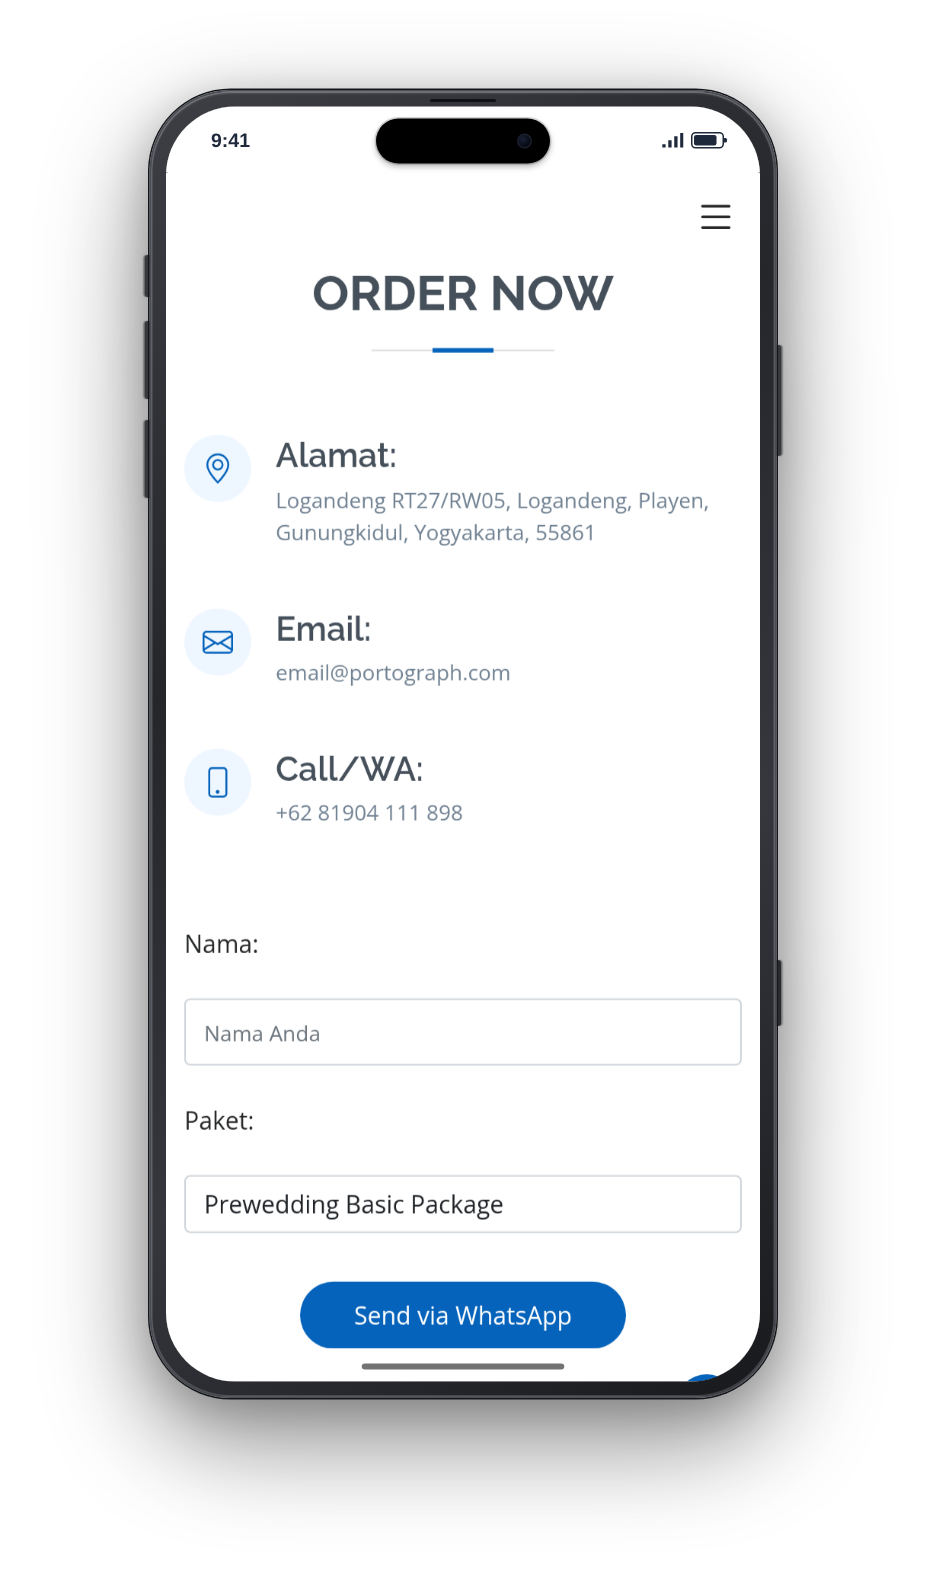
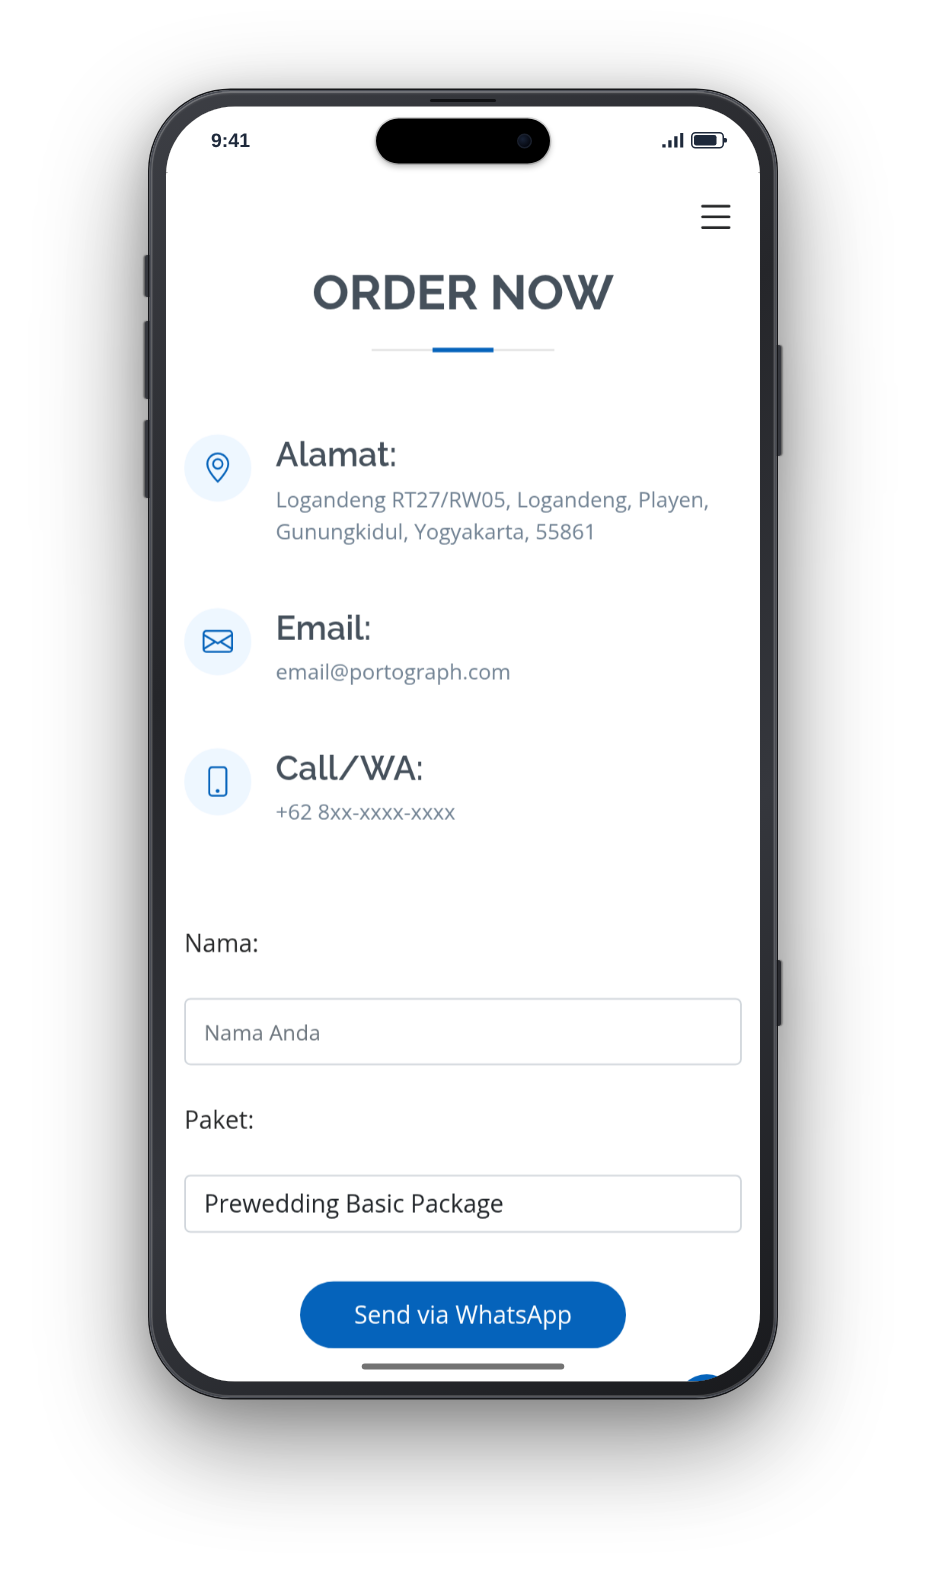
docs: sanitize WhatsApp number in README and contact screenshots

diff --git a/README.md b/README.md
@@ -37,7 +37,7 @@ Portograph is a responsive Bootstrap 5 template designed for wedding photography
 - **Dynamic Typewriter Headline**: Hero section headline cycling through creative studio specialties (`Wedding Photography`, `Wedding Cinematic`, `Live Streaming`, `Video Shooting`) powered by Typed.js 2.0.12 with looping typing and deleting transitions.
 - **Live Instagram Portfolio Feed**: Dynamic social gallery embed via EmbedSocial hashtag widget (`#portfolio`) pulling real-time photography shoots directly from Instagram without manual static markup maintenance.
 - **Service Package Catalog**: Visual showcase of studio service tiers featuring 5 comprehensive brochures covering Prewedding Basic, Prewedding Premium, Prewedding Exclusive, Wedding Silver, Wedding Gold, and Platinum Exclusive tiers, with bundled PDF download links (`paket_compressed.pdf` and `paket.pdf`).
-- **Direct WhatsApp Booking Engine**: Interactive order form (`#contact`) with client name input and dropdown package selection that dynamically builds and launches a pre-filled booking inquiry via WhatsApp API (`gotowhatsapp()` routing directly to `+6281904111898`).
+- **Direct WhatsApp Booking Engine**: Interactive order form (`#contact`) with client name input and dropdown package selection that dynamically builds and launches a pre-filled booking inquiry via WhatsApp Click-to-Chat API (`gotowhatsapp()`).
 - **Case Study Detail Template (`portfolio-details.html`)**: Dedicated multi-image project showcase featuring an auto-playing Swiper 7.3.0 carousel with pagination bullets, project metadata sidebar (Category, Client, Date, URL), and project narrative container.
 - **Responsive Sidebar Navigation**: Vertical left-aligned desktop icon menu (`#header`) with smooth scroll-spy offset tracking, collapsible mobile off-canvas drawer toggled via `bi-list`/`bi-x` icon triggers, and a persistent back-to-top floating button.
 - **Studio Contact & Social Channels**: Quick-access social connections in header and footer linking to official YouTube channel, Instagram (`@aruna_daydream`), WhatsApp hotline, and physical studio address in Logandeng, Playen, Gunungkidul, Yogyakarta.
@@ -55,7 +55,7 @@ Portograph is a responsive Bootstrap 5 template designed for wedding photography
 | **Live Social Embed** | EmbedSocial Universal Hashtag Widget | Real-time Instagram portfolio grid rendering |
 | **Touch Sliders** | Swiper `7.3.0` | Touch-swipe auto-play image carousel for single project case studies |
 | **Motion & Animation** | Typed.js `2.0.12`, AOS `2.3.4` | Animated hero headline typing simulation and scroll-triggered element transitions |
-| **Direct Communication** | WhatsApp Click-to-Chat API | Pre-formatted booking lead redirection (`https://wa.me/6281904111898`) |
+| **Direct Communication** | WhatsApp Click-to-Chat API | Pre-formatted booking inquiry redirection via WhatsApp API endpoint |
 | **Hosting & Edge Delivery** | GitHub Pages, Fastly / Varnish CDN | Static site hosting under custom domain `widifirmaan.web.id` |
 
 ---
